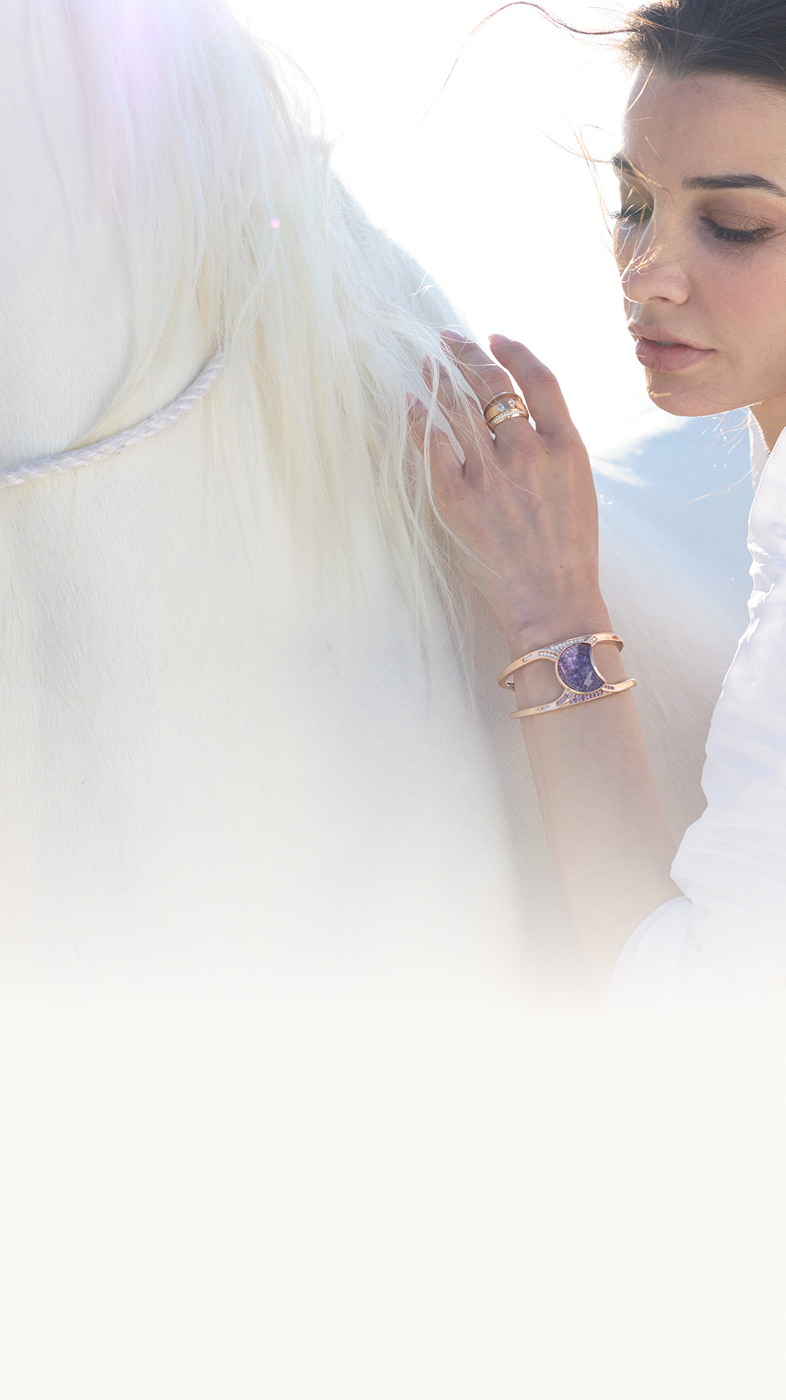
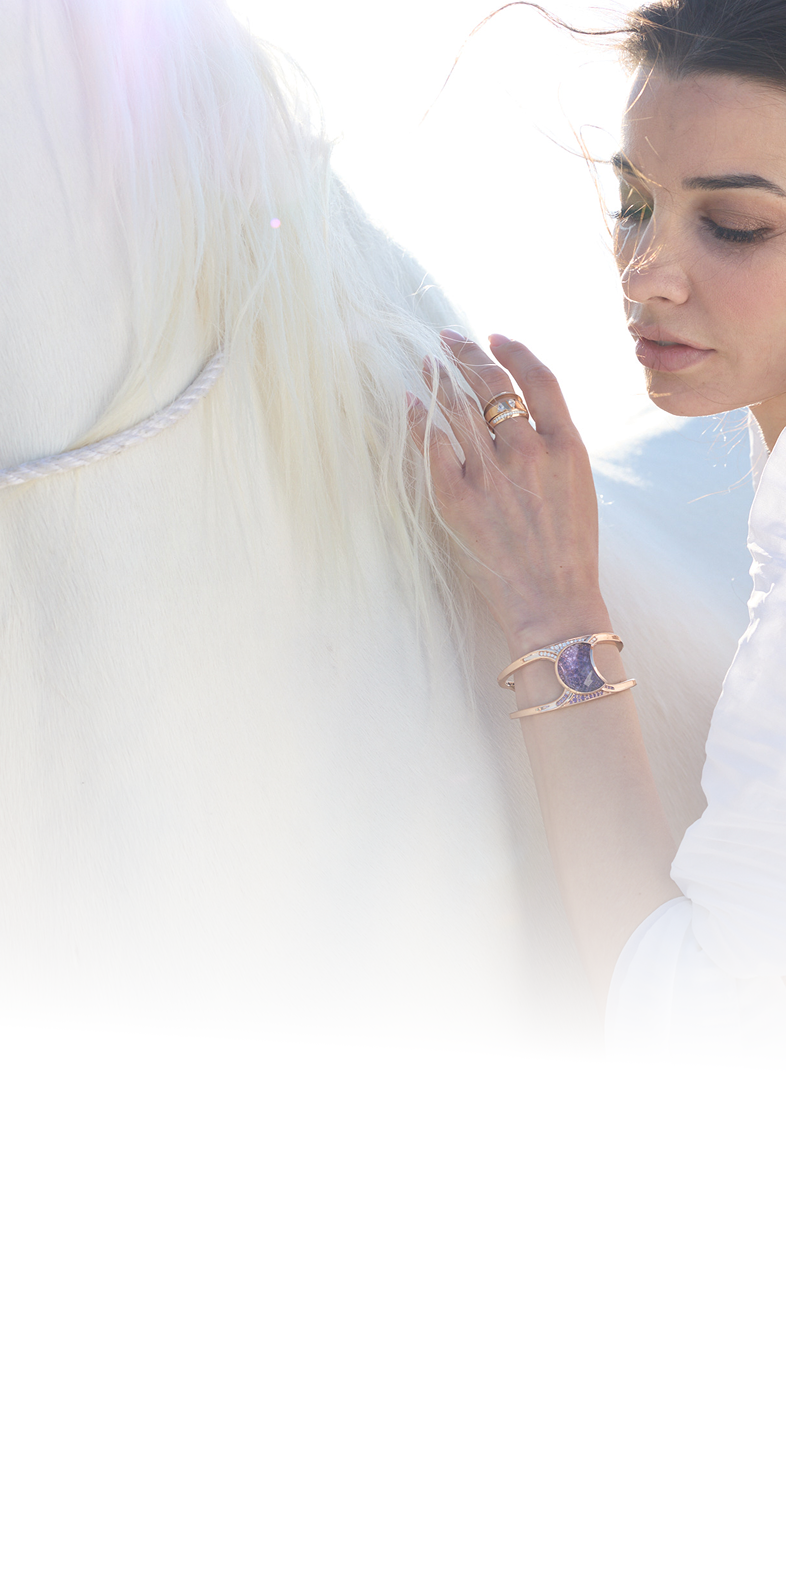
feedback changes done

diff --git a/product/index.html b/product/index.html
@@ -220,6 +220,11 @@
         .first_section_rightpart {
           padding-right: 0;
         }
+        .first_section_rightpart_para {
+          padding-left: 45px;
+          padding-right: 48px;
+          margin-bottom: 28px;
+        }
       }
 
       .discover_btn {
@@ -364,6 +369,7 @@
         .timeless_section {
           height: 920px;
           margin-left: 0px;
+          padding-top: 49px;
         }
         .timeless_card {
           position: absolute;
@@ -375,16 +381,17 @@
           padding: 18px 16px;
         }
         .lineImg {
-          margin-left: 10px;
+          margin-left: 5px;
         }
         .counting {
           font-size: 62px;
           color: #232323;
         }
         .timeless_card_head {
-          font-size: 20px;
+          font-size: 24px;
           line-height: 130%;
           margin-bottom: 24px;
+          margin-top: 10px;
         }
         .timeless_card_para {
           font-size: 12px;
@@ -432,6 +439,9 @@
         width: 700px;
         height: 586px;
       }
+      .third_sec_leftpart_mobImg {
+        display: none;
+      }
       .third_sec_rightpart {
         margin-top: 25px;
       }
@@ -465,7 +475,7 @@
 
       @media screen and (max-width: 600px) {
         .third_sec {
-          padding-top: 20px;
+          padding-top: 35px;
           padding-left: 16px;
           padding-right: 16px;
         }
@@ -476,8 +486,14 @@
           width: 100%;
           height: 360px;
         }
+        .third_sec_leftpart_mobImg {
+          display: block;
+        }
+        .third_sec_leftpart_deskImg {
+          display: none;
+        }
         .third_sec_rightpart {
-          margin-top: -5px;
+          margin-top: 0px;
         }
         .third_sec_rightpart_content {
           padding: 28px 16px 25px 16px;
@@ -486,8 +502,9 @@
           margin: 0 auto;
         }
         .third_sec_rightpart_card_head {
-          font-size: 20px;
+          font-size: 24px;
           margin-bottom: 24px;
+          margin-top: 10px;
         }
         .third_sec_rightpart_card_para {
           font-size: 12px;
@@ -526,15 +543,15 @@
       @media screen and (max-width: 600px) {
         .fourth_sec {
           background-image: url("/images/fourthBgMob.png");
-          height: 824px;
+          height: 890px;
           position: relative;
-          margin-top: 51px;
-          margin-bottom: 75px;
+          margin-top: 55px;
+          margin-bottom: 24px;
         }
         .fourthSec_card {
           position: absolute;
           left: 20px;
-          top: 451px;
+          top: 392px;
           width: auto;
           height: 565px;
           padding: 0;
@@ -796,7 +813,7 @@
         .sixth_section {
           gap: 0;
           flex-direction: column;
-          padding: 20px 30px 64px;
+          padding: 30px 30px 64px;
         }
         .girlDesktopImg {
           display: none;
@@ -824,7 +841,7 @@
         }
         .exploreBtn2 {
           margin: 0 auto;
-          font-size: 14px !important;
+          font-size: 12px !important;
           border: 1px solid #232323;
         }
         .exploreBtnText {
@@ -990,7 +1007,16 @@
     <div class="third_sec">
       <div class="third_sec_parent">
         <div class="third_sec_leftpart">
-          <img src="/images/thirdBanner.png" alt="" />
+          <img
+            src="/images/thirdBanner.png"
+            alt="desImg"
+            class="third_sec_leftpart_deskImg"
+          />
+          <img
+            src="/images/thirdBannerMob.png"
+            alt="Mob Img"
+            class="third_sec_leftpart_mobImg"
+          />
         </div>
         <div class="third_sec_rightpart">
           <div class="third_sec_rightpart_content">
